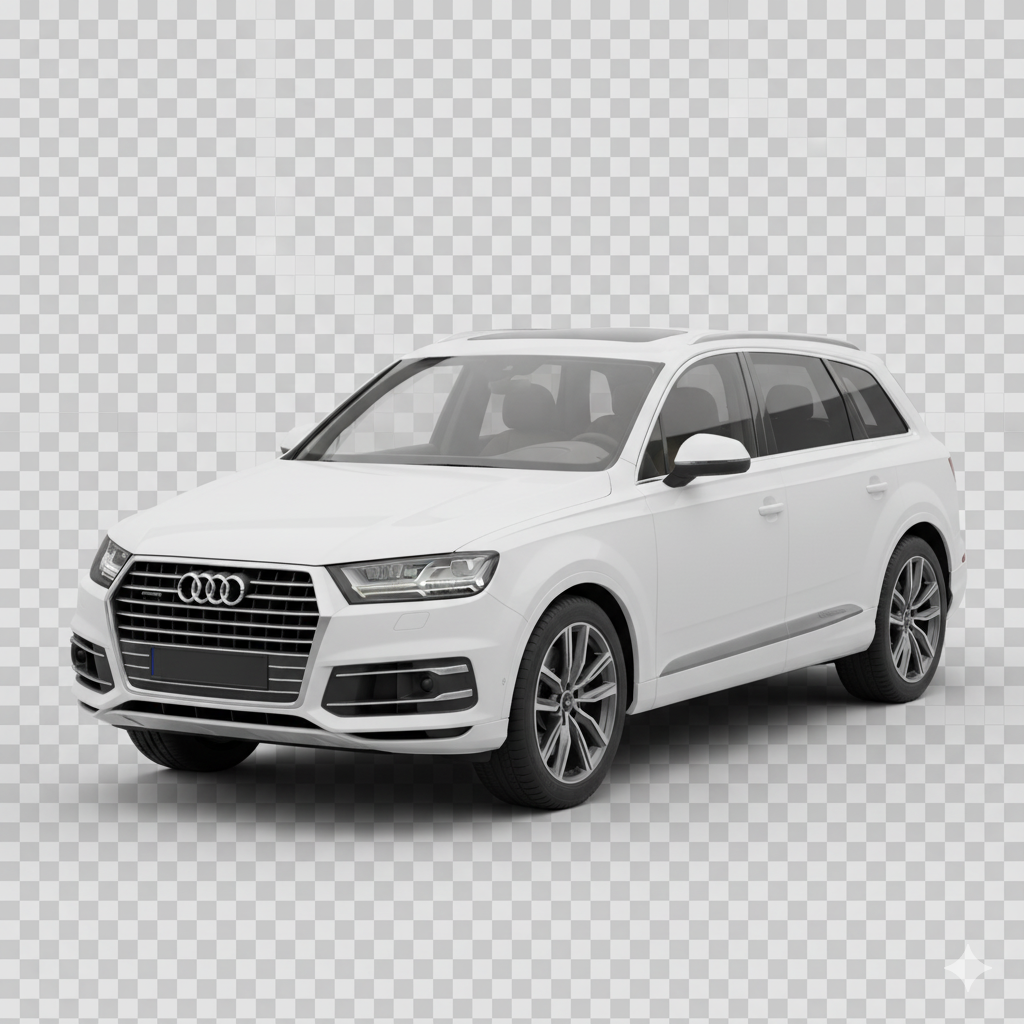
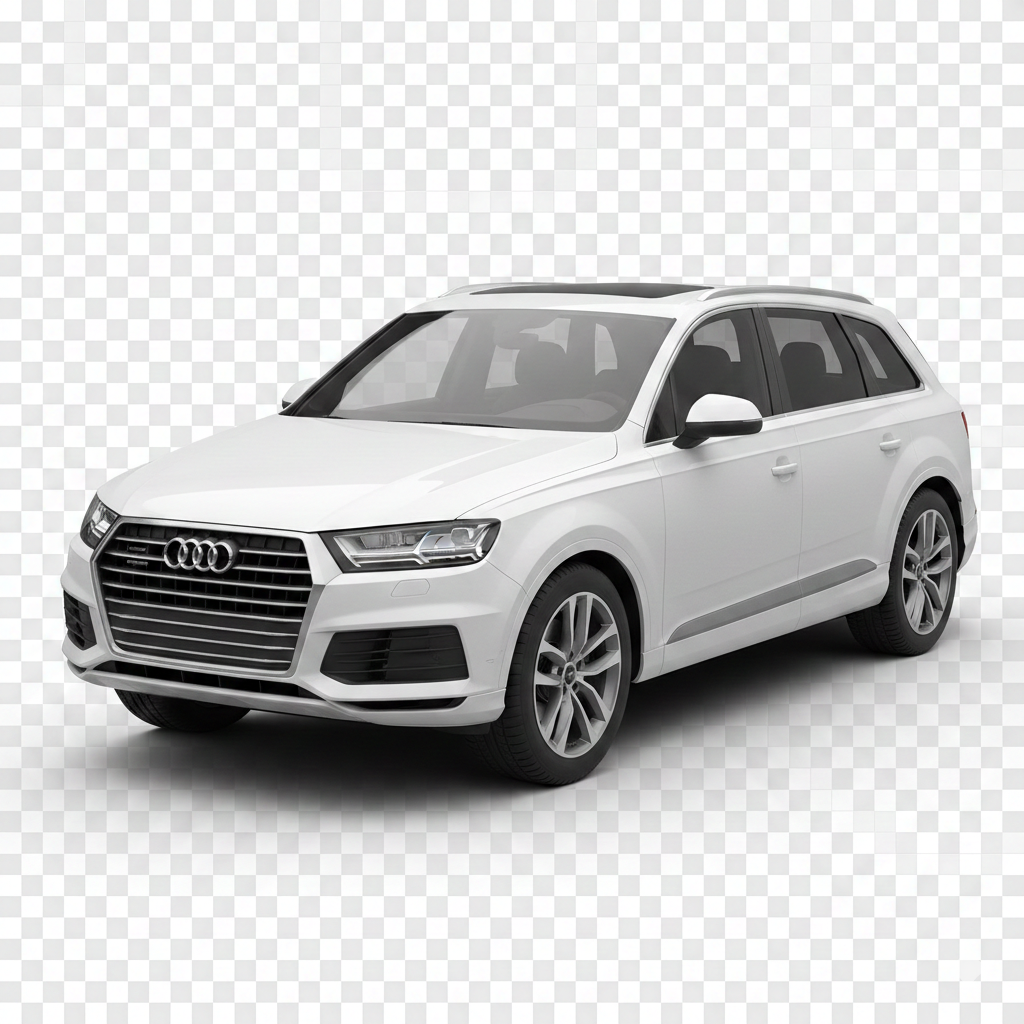
Add image path configurations for Jaguar, Jeep, and Nissan brands

diff --git a/Frontend/src/components/BrandSelectorModal.tsx b/Frontend/src/components/BrandSelectorModal.tsx
@@ -277,8 +277,8 @@ const BrandSelectorModal = ({
           // Special cases for different filename formats
           if (modelName === 'range_rover') {
             landRoverFileName = 'rangrover';
-          } else if (modelName === 'range_rover_sport') {
-            landRoverFileName = 'rangerover_sport';
+          } else if (modelName === 'range_rover_sport' || model.name === 'Range Rover Sport') {
+            landRoverFileName = 'Range Rover Sport';
           } else if (modelName === 'range_rover_velar') {
             landRoverFileName = 'rangerover_velar';
           } else if (modelName === 'range_rover_vogue') {
@@ -287,8 +287,8 @@ const BrandSelectorModal = ({
             landRoverFileName = 'rangerovere_evoque';
           } else if (modelName === 'freelander_2') {
             landRoverFileName = 'freelander2';
-          } else if (modelName === 'discovery_4') {
-            landRoverFileName = 'discover4';
+          } else if (modelName === 'discovery_4' || model.name === 'Discovery 4') {
+            landRoverFileName = 'Discovery 4';
           } else if (modelName === 'discovery_sport') {
             landRoverFileName = 'discovery_sport';
           }
@@ -296,9 +296,13 @@ const BrandSelectorModal = ({
         } else if (brandName === 'audi') {
           // Audi images are in "Audi_car" folder with capital A
           let audiFileName = modelName;
-          // Special case: A8 L uses underscore in filename
-          if (modelName === 'a8_l') {
-            audiFileName = 'a8_l';
+          // Special case: A8 L uses space and uppercase in filename
+          if (modelName === 'a8_l' || model.name === 'A8 L') {
+            audiFileName = 'A8 L';
+          }
+          // Special case: Q7 uses uppercase in filename
+          if (modelName === 'q7') {
+            audiFileName = 'Q7';
           }
           imagePath = `/images/Car_images/Audi_car/${audiFileName}.png`;
         } else if (brandName === 'volkswagen') {
@@ -331,6 +335,10 @@ const BrandSelectorModal = ({
           if (modelName === 'gle43_amg' || model.name === 'GLE43 AMG' || model.name === 'GLE 43 AMG') {
             mercedesFileName = 'GLE43 AMG';
           }
+          // Special case: GLE Class uses space format
+          if (modelName === 'gle_class' || model.name === 'GLE Class' || model.name === 'GLE-Class') {
+            mercedesFileName = 'GLE Class';
+          }
           imagePath = `/images/Car_images/Mercedes-Benz/${mercedesFileName}.png`;
         } else if (brandName === 'volvo') {
           // Volvo images are in "Volvo" folder with spaces in filenames
@@ -340,6 +348,30 @@ const BrandSelectorModal = ({
             volvoFileName = 'XC 40';
           }
           imagePath = `/images/Car_images/Volvo/${volvoFileName}.png`;
+        } else if (brandName === 'kia') {
+          // Kia images are in "Kia" folder with proper capitalization
+          let kiaFileName = model.name; // Use original name with proper capitalization
+          imagePath = `/images/Car_images/Kia/${kiaFileName}.png`;
+        } else if (brandName === 'mg') {
+          // MG images are in "MG" folder with proper capitalization
+          let mgFileName = model.name; // Use original name with proper capitalization
+          imagePath = `/images/Car_images/MG/${mgFileName}.png`;
+        } else if (brandName === 'mini') {
+          // Mini images are in "Mini" folder with proper capitalization
+          let miniFileName = model.name; // Use original name with proper capitalization
+          imagePath = `/images/Car_images/Mini/${miniFileName}.png`;
+        } else if (brandName === 'jaguar') {
+          // Jaguar images are in "Jaguar" folder with proper capitalization and hyphens
+          let jaguarFileName = model.name; // Use original name with proper capitalization
+          imagePath = `/images/Car_images/Jaguar/${jaguarFileName}.png`;
+        } else if (brandName === 'jeep') {
+          // Jeep images are in "Jeep" folder with proper capitalization
+          let jeepFileName = model.name; // Use original name with proper capitalization
+          imagePath = `/images/Car_images/Jeep/${jeepFileName}.png`;
+        } else if (brandName === 'nissan') {
+          // Nissan images are in "Nissan" folder with proper capitalization
+          let nissanFileName = model.name; // Use original name with proper capitalization
+          imagePath = `/images/Car_images/Nissan/${nissanFileName}.png`;
         } else {
           imagePath = `/images/Car_images/${brandName}_car/${modelName}.png`;
         }
@@ -349,35 +381,53 @@ const BrandSelectorModal = ({
             key={model.id}
             onClick={() => handleModelClick(model.id)}
             className={cn(
-              "flex flex-col items-center justify-center bg-white rounded-2xl transition-all duration-300 overflow-hidden group relative",
-              "hover:shadow-lg hover:-translate-y-1",
+              "flex flex-col items-center justify-center transition-all duration-300 overflow-hidden group relative",
+              "rounded-2xl",
               isSelected
-                ? "border-2 border-[#E74A3B] shadow-xl scale-105"
-                : "border border-gray-200 shadow-md hover:border-[#E74A3B]/50"
+                ? "border-2 border-[#E74A3B] scale-[1.02]"
+                : "border border-gray-200/50 hover:border-[#E74A3B]/40"
             )}
             style={{
               aspectRatio: '0.95',
-              padding: '10px'
+              padding: '8px',
+              backgroundColor: '#FFFFFF',
+              boxShadow: isSelected 
+                ? '0 8px 24px rgba(231, 74, 59, 0.15), 0 2px 8px rgba(0, 0, 0, 0.05)' 
+                : '0 2px 8px rgba(0, 0, 0, 0.04), 0 1px 2px rgba(0, 0, 0, 0.02)',
+              transition: 'all 0.3s cubic-bezier(0.4, 0, 0.2, 1)'
             }}
           >
-            {/* Car Image Container */}
-            <div className="flex-1 flex items-center justify-center w-full mb-2 relative bg-white rounded-lg">
+            {/* Car Image Container - Pure White Background */}
+            <div 
+              className="flex-1 flex items-center justify-center w-full mb-2 relative rounded-lg"
+              style={{
+                backgroundColor: '#FFFFFF'
+              }}
+            >
               <div className={cn(
-                "relative w-full h-full flex items-center justify-center transition-transform duration-300 bg-white rounded-lg",
-                isSelected ? "scale-105" : "group-hover:scale-110"
-              )}>
+                "relative w-full h-full flex items-center justify-center transition-transform duration-300 rounded-lg",
+                isSelected ? "scale-105" : "group-hover:scale-[1.08]"
+              )}
+              style={{
+                backgroundColor: '#FFFFFF'
+              }}
+              >
                 <img
                   src={imagePath}
                   alt={model.name}
                   className="w-full h-full object-contain"
                   style={{
-                    filter: 'drop-shadow(0 4px 12px rgba(0, 0, 0, 0.15))',
-                    maxHeight: '80%',
-                    backgroundColor: 'white',
-                    mixBlendMode: 'multiply'
+                    filter: isSelected 
+                      ? 'drop-shadow(0 4px 12px rgba(231, 74, 59, 0.15))' 
+                      : 'drop-shadow(0 2px 6px rgba(0, 0, 0, 0.06))',
+                    maxHeight: '100%',
+                    backgroundColor: '#FFFFFF',
+                    padding: '2px',
+                    mixBlendMode: 'normal',
+                    imageRendering: 'crisp-edges',
+                    WebkitFontSmoothing: 'antialiased'
                   }}
                   onError={(e) => {
-                    // Fallback to a placeholder or default car icon
                     e.currentTarget.src = "/images/car_images/default_car.png";
                     e.currentTarget.style.filter = 'none';
                   }}
@@ -386,28 +436,41 @@ const BrandSelectorModal = ({
               </div>
             </div>
             
-            {/* Model Name */}
-            <div className={cn(
-              "text-center w-full px-0.5 py-2 transition-colors duration-200",
-              isSelected 
-                ? "bg-gradient-to-t from-red-50 to-transparent" 
-                : ""
-            )}>
+            {/* Model Name - Clean Typography */}
+            <div 
+              className={cn(
+                "text-center w-full px-1 py-2 rounded-lg transition-all duration-200",
+                isSelected && "bg-red-50/50"
+              )}
+              style={{
+                backgroundColor: isSelected ? 'rgba(254, 242, 242, 0.5)' : 'transparent'
+              }}
+            >
               <span className={cn(
-                "text-xs font-bold tracking-tight leading-tight block whitespace-nowrap overflow-hidden text-ellipsis",
+                "text-xs font-semibold tracking-tight leading-tight block whitespace-nowrap overflow-hidden text-ellipsis",
                 isSelected 
                   ? "text-[#E74A3B]" 
                   : "text-gray-800 group-hover:text-[#E74A3B]"
-              )}>
+              )}
+              style={{
+                fontFamily: '-apple-system, BlinkMacSystemFont, "Segoe UI", Roboto, sans-serif',
+                letterSpacing: '-0.01em'
+              }}
+              >
                 {model.name}
               </span>
             </div>
             
-            {/* Selection Indicator */}
+            {/* Selection Indicator - Minimal Premium */}
             {isSelected && (
-              <div className="absolute top-2 right-2 w-6 h-6 bg-[#E74A3B] rounded-full flex items-center justify-center shadow-lg">
-                <svg className="w-4 h-4 text-white" fill="none" viewBox="0 0 24 24" stroke="currentColor">
-                  <path strokeLinecap="round" strokeLinejoin="round" strokeWidth={3} d="M5 13l4 4L19 7" />
+              <div 
+                className="absolute top-3 right-3 w-6 h-6 bg-[#E74A3B] rounded-full flex items-center justify-center"
+                style={{
+                  boxShadow: '0 2px 8px rgba(231, 74, 59, 0.3)'
+                }}
+              >
+                <svg className="w-4 h-4 text-white" fill="none" viewBox="0 0 24 24" stroke="currentColor" strokeWidth="3">
+                  <path strokeLinecap="round" strokeLinejoin="round" d="M5 13l4 4L19 7" />
                 </svg>
               </div>
             )}
